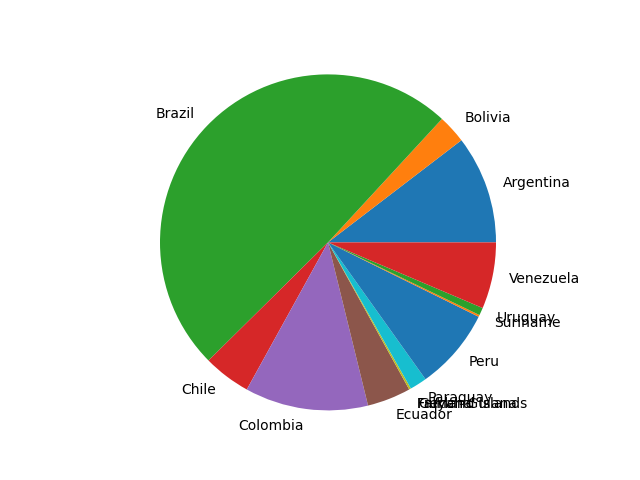
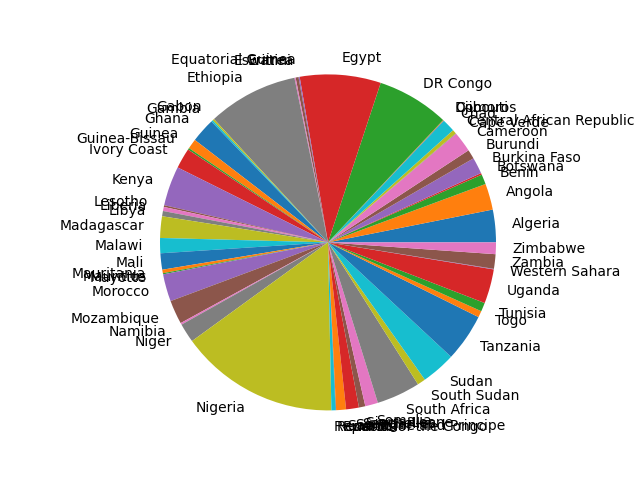
se anadio el proyecto web server, se anadieron dependencias como fastapi o requests, pandas y dockerdile y dockercompose

Changed region(s): [[0.0938, 0.0938, 1.0, 0.9062]]

diff --git a/app/main.py b/app/main.py
@@ -1,22 +1,24 @@
 import utils
 import read_csv
 import charts
-
+import pandas as pd
 
 
 def run():
+  '''
   data = read_csv.read_csv('data.csv')
-
-  '''
-  data = list(filter(lambda item: item['Continent'] == 'South America', data))
-  
+  data = list(filter(lambda item: item['Continent'] == 'South America', data)
   labels, values = utils.get_countries_vs_percent(data)
-  charts.generate_pie_chart(labels, values)
-
-  '''
-  
   #ESTE CODIGO GENERA UNA GRAFICA DE POBLACION POR PAIS
+'''
+  df = pd.read_csv('data.csv')
+  df = df[df['Continent'] == 'Africa']
 
+  countries = df['Country/Territory'].values
+  percentages = df['World Population Percentage'].values
+ 
+ 
+  charts.generate_pie_chart(countries, percentages)
   data = read_csv.read_csv('data.csv')
   country = input(f'Selecciona un pais =>')
   result = utils.get_population_by_country(data, country)

diff --git a/web-server/main.py b/web-server/main.py
@@ -1,0 +1,24 @@
+import store
+from fastapi import FastAPI
+from fastapi.responses import HTMLResponse
+
+app = FastAPI()
+
+@app.get('/')
+def get_list():
+    return [1, 2, 3]
+
+@app.get('/contact', response_class=HTMLResponse)
+def get_htmlt():
+    return """
+    <h1>Me encontre al patito juan cuac cuac </h1>
+    <p>Holaaaaaaaaaaaa pibes</p>
+    """
+
+
+
+def run():
+    store.get_categories()
+
+if __name__ == "__main__":
+    run()

diff --git a/web-server/store.py b/web-server/store.py
@@ -1,0 +1,14 @@
+import requests
+
+def get_categories():
+    r = requests.get('https://api.escuelajs.co/api/v1/categories')
+    print(r.status_code)
+    print(r.text)
+
+    print(type(r.text))
+    categories = r.json()
+    print(f'esto es un json: {categories}')
+    for category in categories:
+        print('probando que es category',category)
+        print(category['name'])
+        

diff --git a/app/charts.py b/app/charts.py
@@ -11,7 +11,7 @@ def generate_pie_chart(labels, values):
   fig, ax = plt.subplots()
   ax.pie(values, labels = labels)
   ax.axis('equal')
-  plt.savefig('pie.png')
+  plt.savefig('chart_pie_final_final_est_si.png')
   plt.close()
 
 if __name__ == '__main__':
